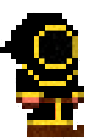
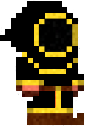
Mage picture has been resized, small code changes.

diff --git a/core/src/com/magicka/screens/game/GameScreen.java b/core/src/com/magicka/screens/game/GameScreen.java
@@ -10,12 +10,12 @@ public class GameScreen extends ScreenAdapter {
 
     private Magicka game;
     private OrthographicCamera camera;
-    private GameContent gameContent;
+    private GameScreenContent content;
 
     public GameScreen(Magicka game) {
         Gdx.gl.glClearColor(0, 0, 0, 1);
         this.game = game;
-        this.gameContent = new GameContent();
+        this.content = new GameScreenContent();
         this.initializeCamera();
     }
 
@@ -28,12 +28,12 @@ public class GameScreen extends ScreenAdapter {
 
     private void update(float delta) {
         this.camera.update();
-        this.gameContent.update(delta);
+        this.content.update(delta);
     }
 
     private void draw() {
         this.game.batcher.begin();
-        this.gameContent.render(this.game.batcher);
+        this.content.render(this.game.batcher);
         this.game.batcher.end();
     }
 

diff --git a/core/src/com/magicka/screens/game/GameScreenContent.java b/core/src/com/magicka/screens/game/GameScreenContent.java
@@ -9,13 +9,13 @@ import com.magicka.model.Mage;
 import java.util.ArrayList;
 import java.util.List;
 
-public class GameContent {
+public class GameScreenContent {
 
     private List<GameObject> objects;
     private PlayerConfiguration playerOneConfiguration;
     private PlayerConfiguration playerTwoConfiguration;
 
-    public GameContent() {
+    public GameScreenContent() {
         this.initializePlayersConfigurations();
         this.initializeObjects();
     }
